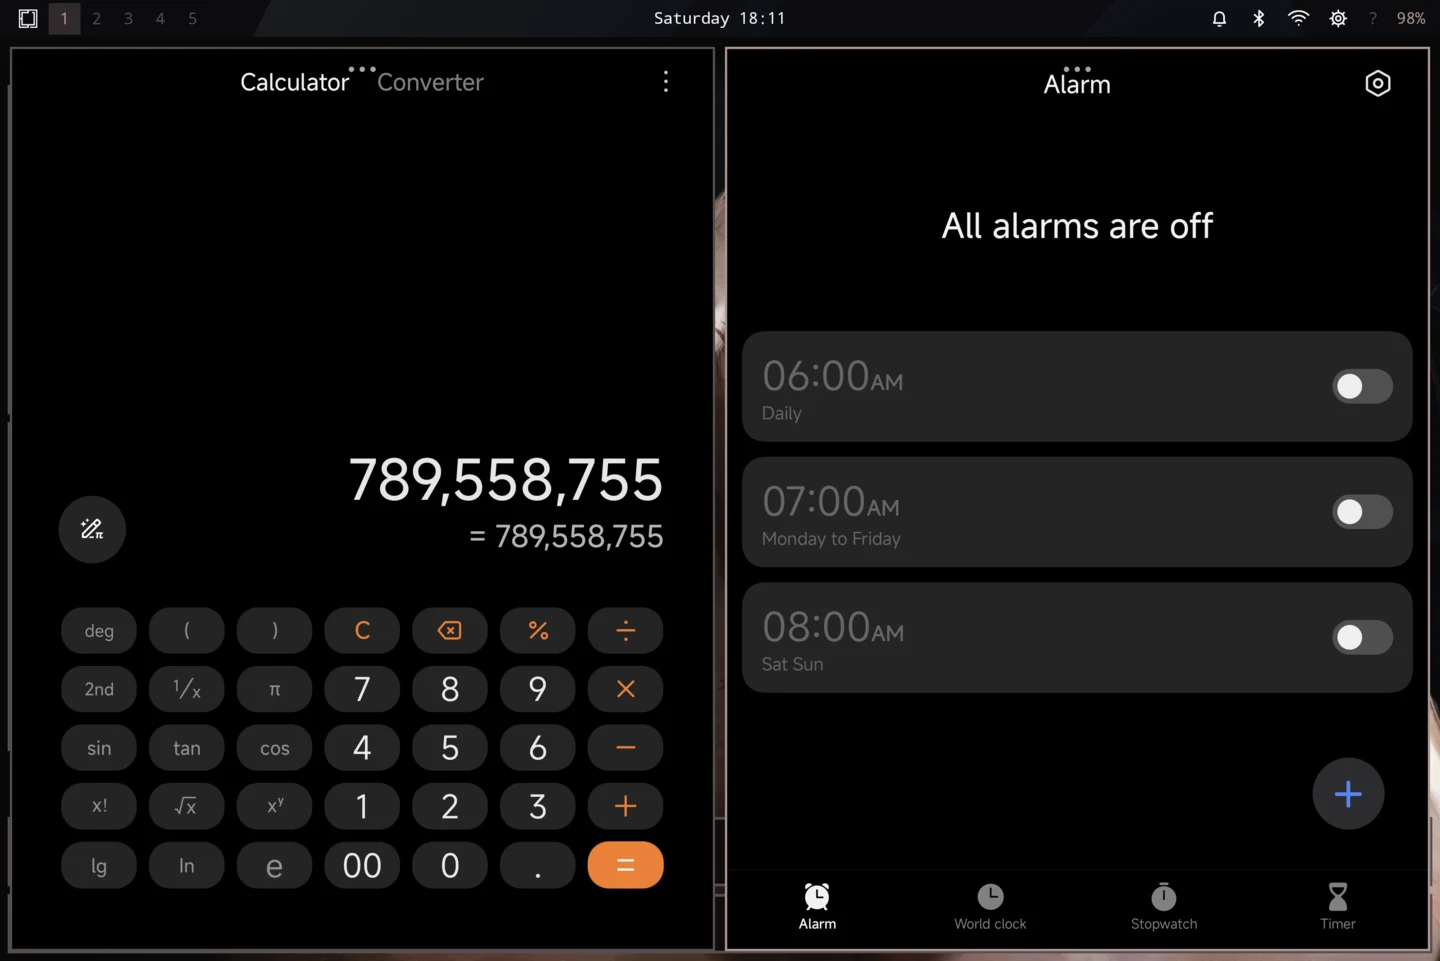
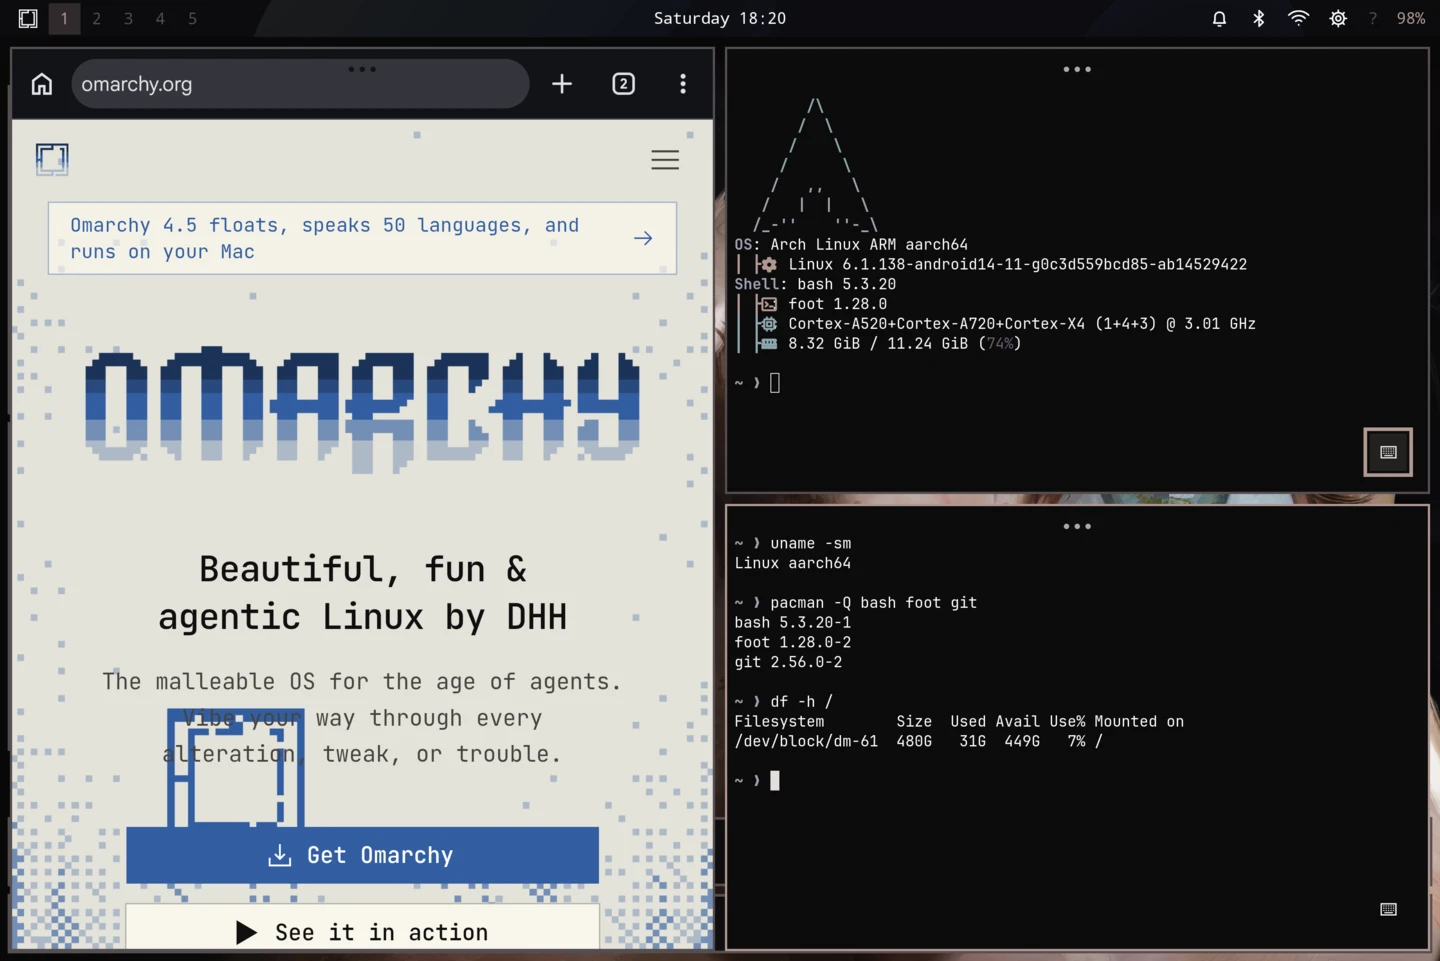
Website: show Chrome and real Linux commands in the launcher desktop preview

diff --git a/docs/launcher/index.html b/docs/launcher/index.html
@@ -12,8 +12,8 @@
 <meta property="og:title" content="SD Launcher — Omarchy on Android">
 <meta property="og:description" content="Live agent terminals, Omarchy themes, optional Linux and an experimental keyboard-driven tiling desktop. Free APK, built on Omalauncher.">
 <meta property="og:url" content="https://superdesktop.dmytrogladkyi.com/launcher/">
-<meta property="og:image" content="https://superdesktop.dmytrogladkyi.com/screenshots/launcher/tiling.webp">
-<meta property="og:image:alt" content="Android apps tiled beneath SD Launcher's Omarchy-style workspace bar">
+<meta property="og:image" content="https://superdesktop.dmytrogladkyi.com/screenshots/launcher/tiling.webp?v=chrome-terminals">
+<meta property="og:image:alt" content="Chrome and two Linux terminals tiled beneath SD Launcher's Omarchy-style workspace bar">
 <meta name="twitter:card" content="summary_large_image">
 <link rel="icon" href="/favicon.ico">
 <link rel="stylesheet" href="/assets/site.css">
@@ -39,8 +39,8 @@
       <p class="gallery-hint" id="gallery-hint">Swipe to explore. Select a screenshot to open it full size.</p>
       <div class="gallery-track" id="launcher-slides" tabindex="0" aria-label="Launcher screenshots" aria-describedby="gallery-hint">
 <figure class="gallery-slide" id="shot-tiling" role="group" aria-roledescription="slide" aria-label="1 of 8: Tiled windows">
-        <a class="gallery-image" href="/screenshots/launcher/tiling.webp" aria-label="Open full-size screenshot: Tiled windows"><img src="/screenshots/launcher/tiling.webp" width="1440" height="961" fetchpriority="high" alt="Calculator and Clock tiled side by side on SD Launcher, with the workspace bar above them"></a>
-        <figcaption><div><h3>Android apps. Omarchy habits.</h3><p>Real Android apps share the desktop. Focus, swap and resize their tiles from the keyboard.</p></div><span class="kbd">Super + Alt + arrows</span></figcaption>
+        <a class="gallery-image" href="/screenshots/launcher/tiling.webp?v=chrome-terminals" aria-label="Open full-size screenshot: Tiled windows"><img src="/screenshots/launcher/tiling.webp?v=chrome-terminals" width="1440" height="961" fetchpriority="high" alt="Chrome showing omarchy.org beside two Linux terminals running fastfetch, uname, pacman and df on a Xiaomi Pad"></a>
+        <figcaption><div><h3>Chrome. Linux terminals. One desktop.</h3><p>Browse in Chrome while real Linux commands run in two terminal windows. Focus, swap and resize their tiles from the keyboard.</p></div><span class="kbd">Super + Alt + arrows</span></figcaption>
       </figure>
 <figure class="gallery-slide" id="shot-floating" role="group" aria-roledescription="slide" aria-label="2 of 8: Floating">
         <a class="gallery-image" href="/screenshots/launcher/floating.webp" aria-label="Open full-size screenshot: Floating"><img src="/screenshots/launcher/floating.webp" width="1440" height="961" loading="lazy" alt="Clock floating above the Calculator window in SD Launcher"></a>

diff --git a/docs/screenshots/README.md b/docs/screenshots/README.md
@@ -161,7 +161,12 @@ show the development build of the tiling features shipped in SD Launcher
 Resized from 3200 × 2136 to 1440 × 961 and encoded as WebP at quality 88,
 with metadata stripped. No UI was composited into the captures.
 
-- `tiling.webp`: Calculator and Clock tiled side by side, beneath the workspace bar.
+- `tiling.webp`: Chrome on omarchy.org at left, with two real Linux terminal
+  windows at right. Recaptured on 2026-11-14 and encoded at WebP quality 90.
+  The upper terminal runs `fastfetch --logo-type small --logo arch --structure
+  OS:Kernel:Shell:Terminal:CPU:Memory`; the lower runs `uname -sm`,
+  `pacman -Q bash foot git` and `df -h /`. All output is from the Pad’s
+  actual Arch Linux ARM environment.
 - `floating.webp`: Clock floating over Calculator (Super+T).
 - `finder.webp`: the Super+Space app finder over the tiled desktop.
 - `keys.webp`: the built-in Super+K keyboard shortcut reference.
